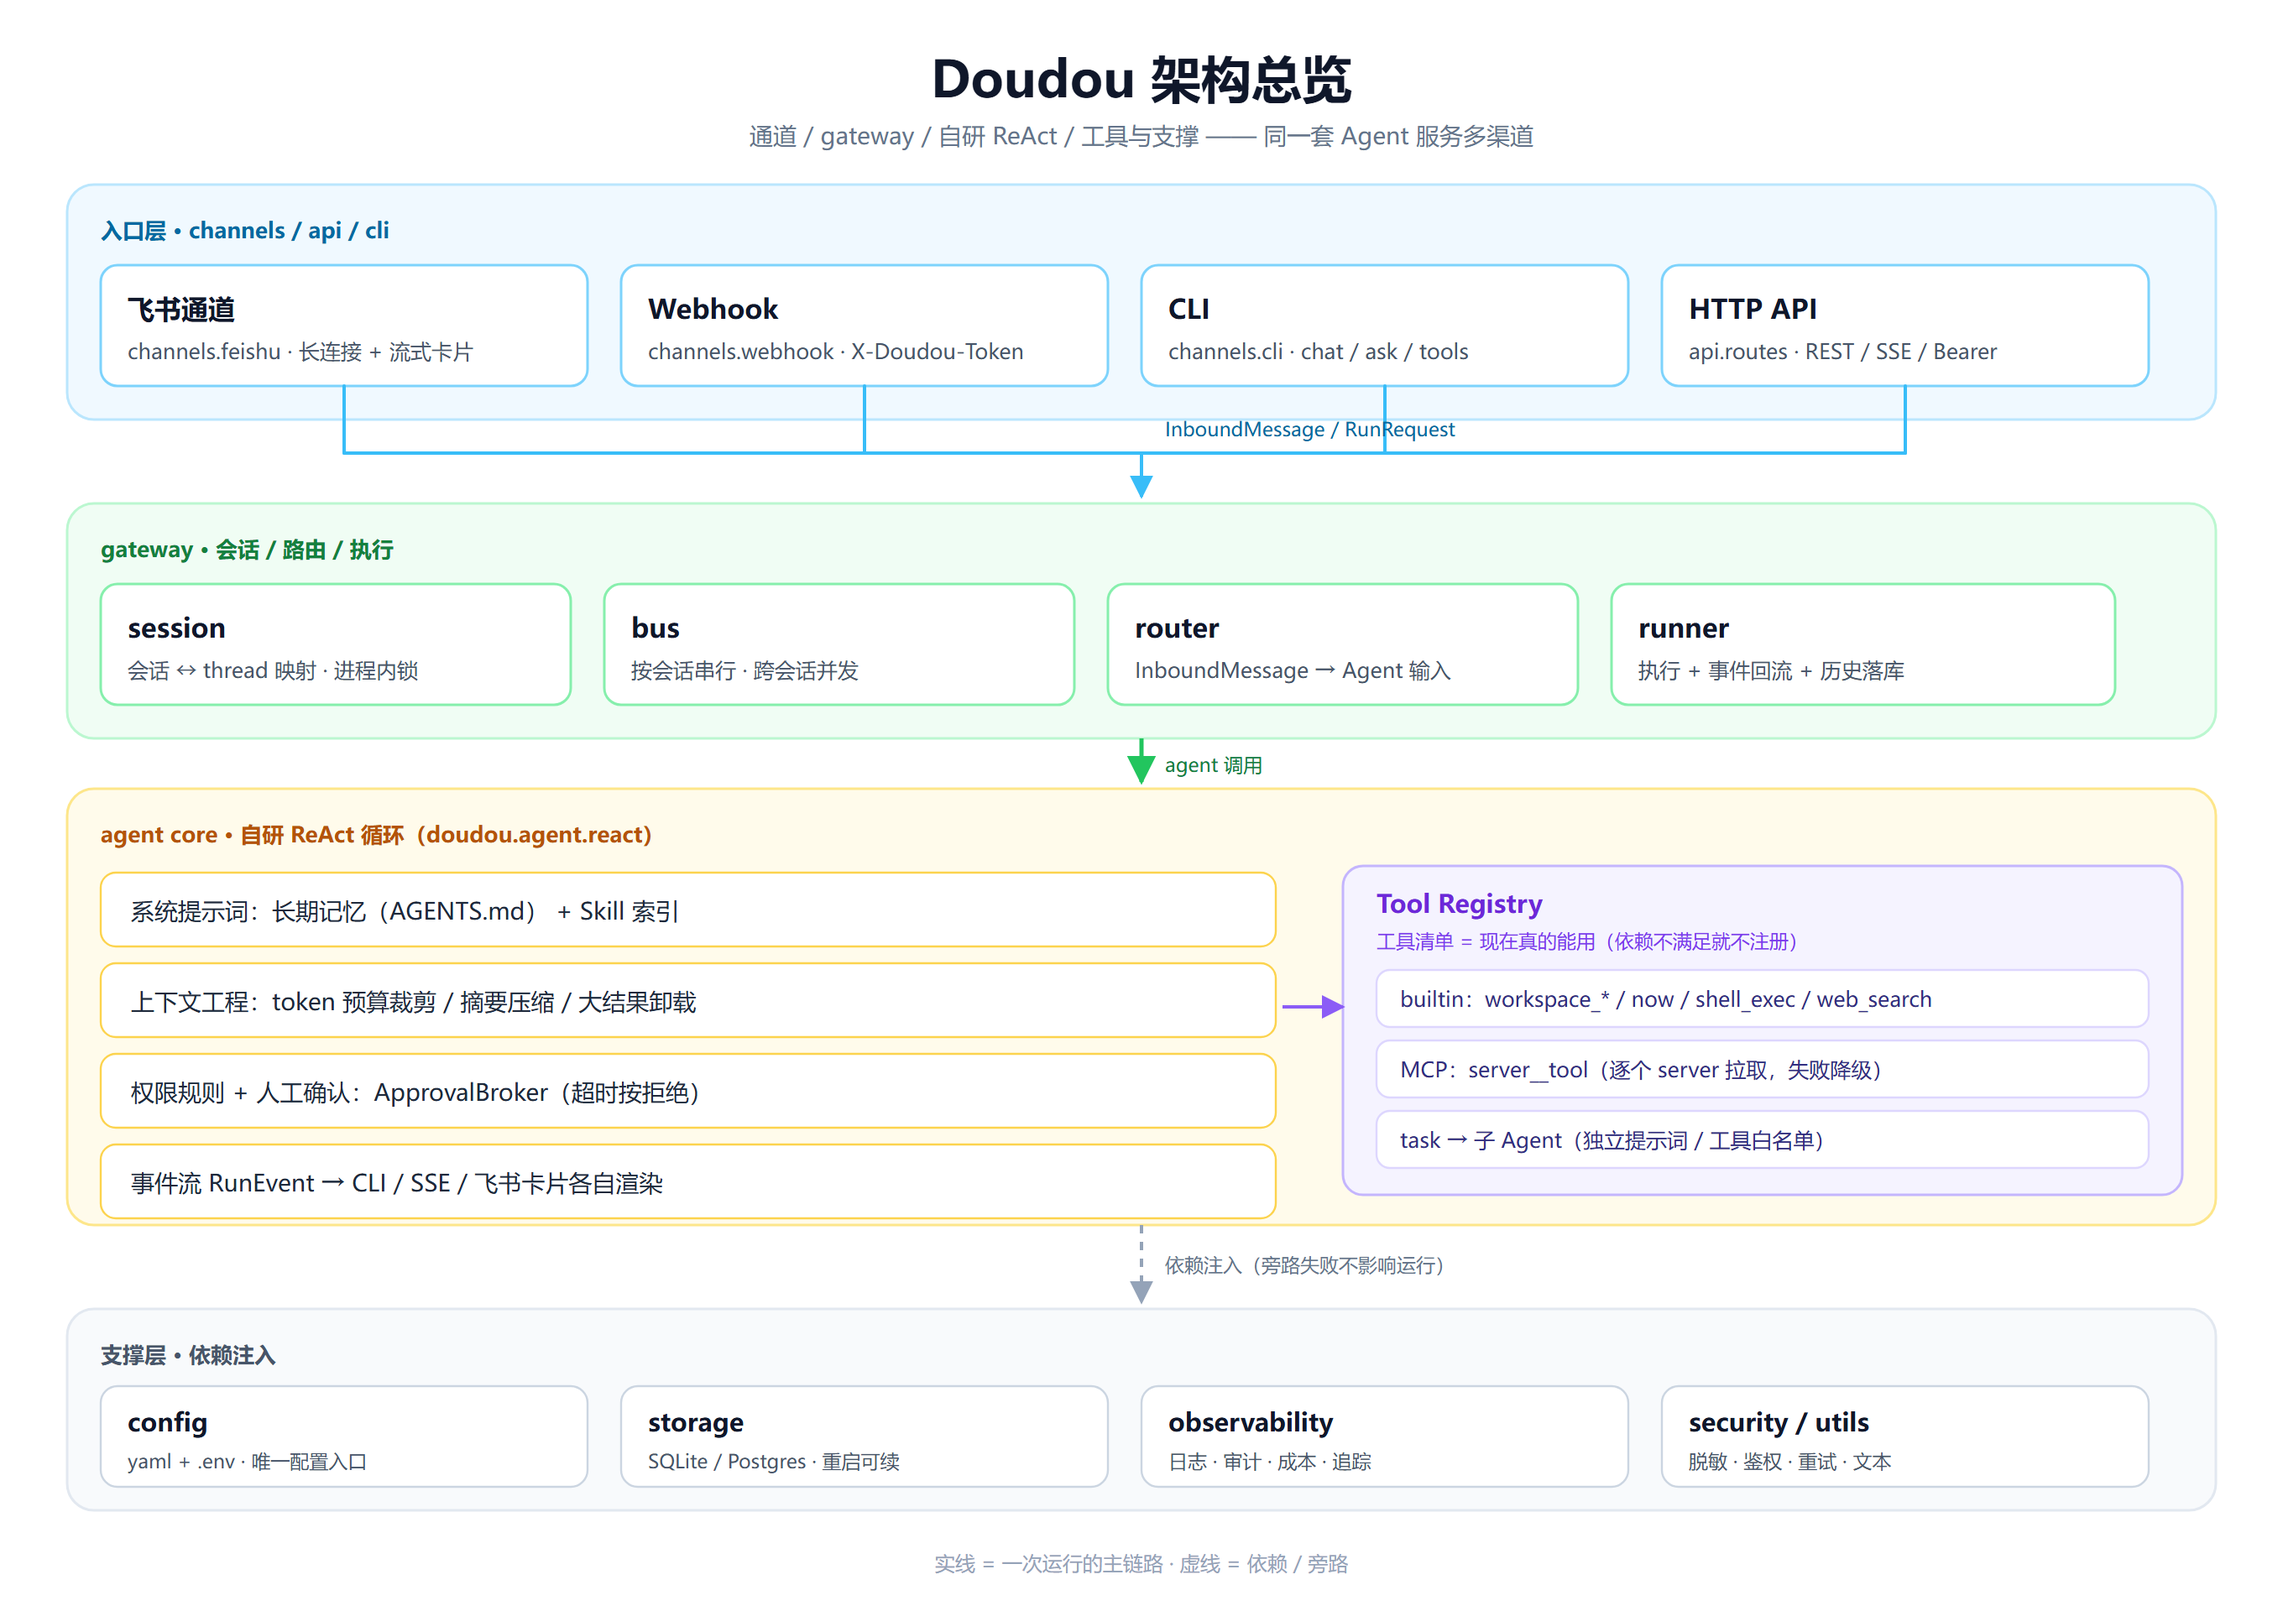
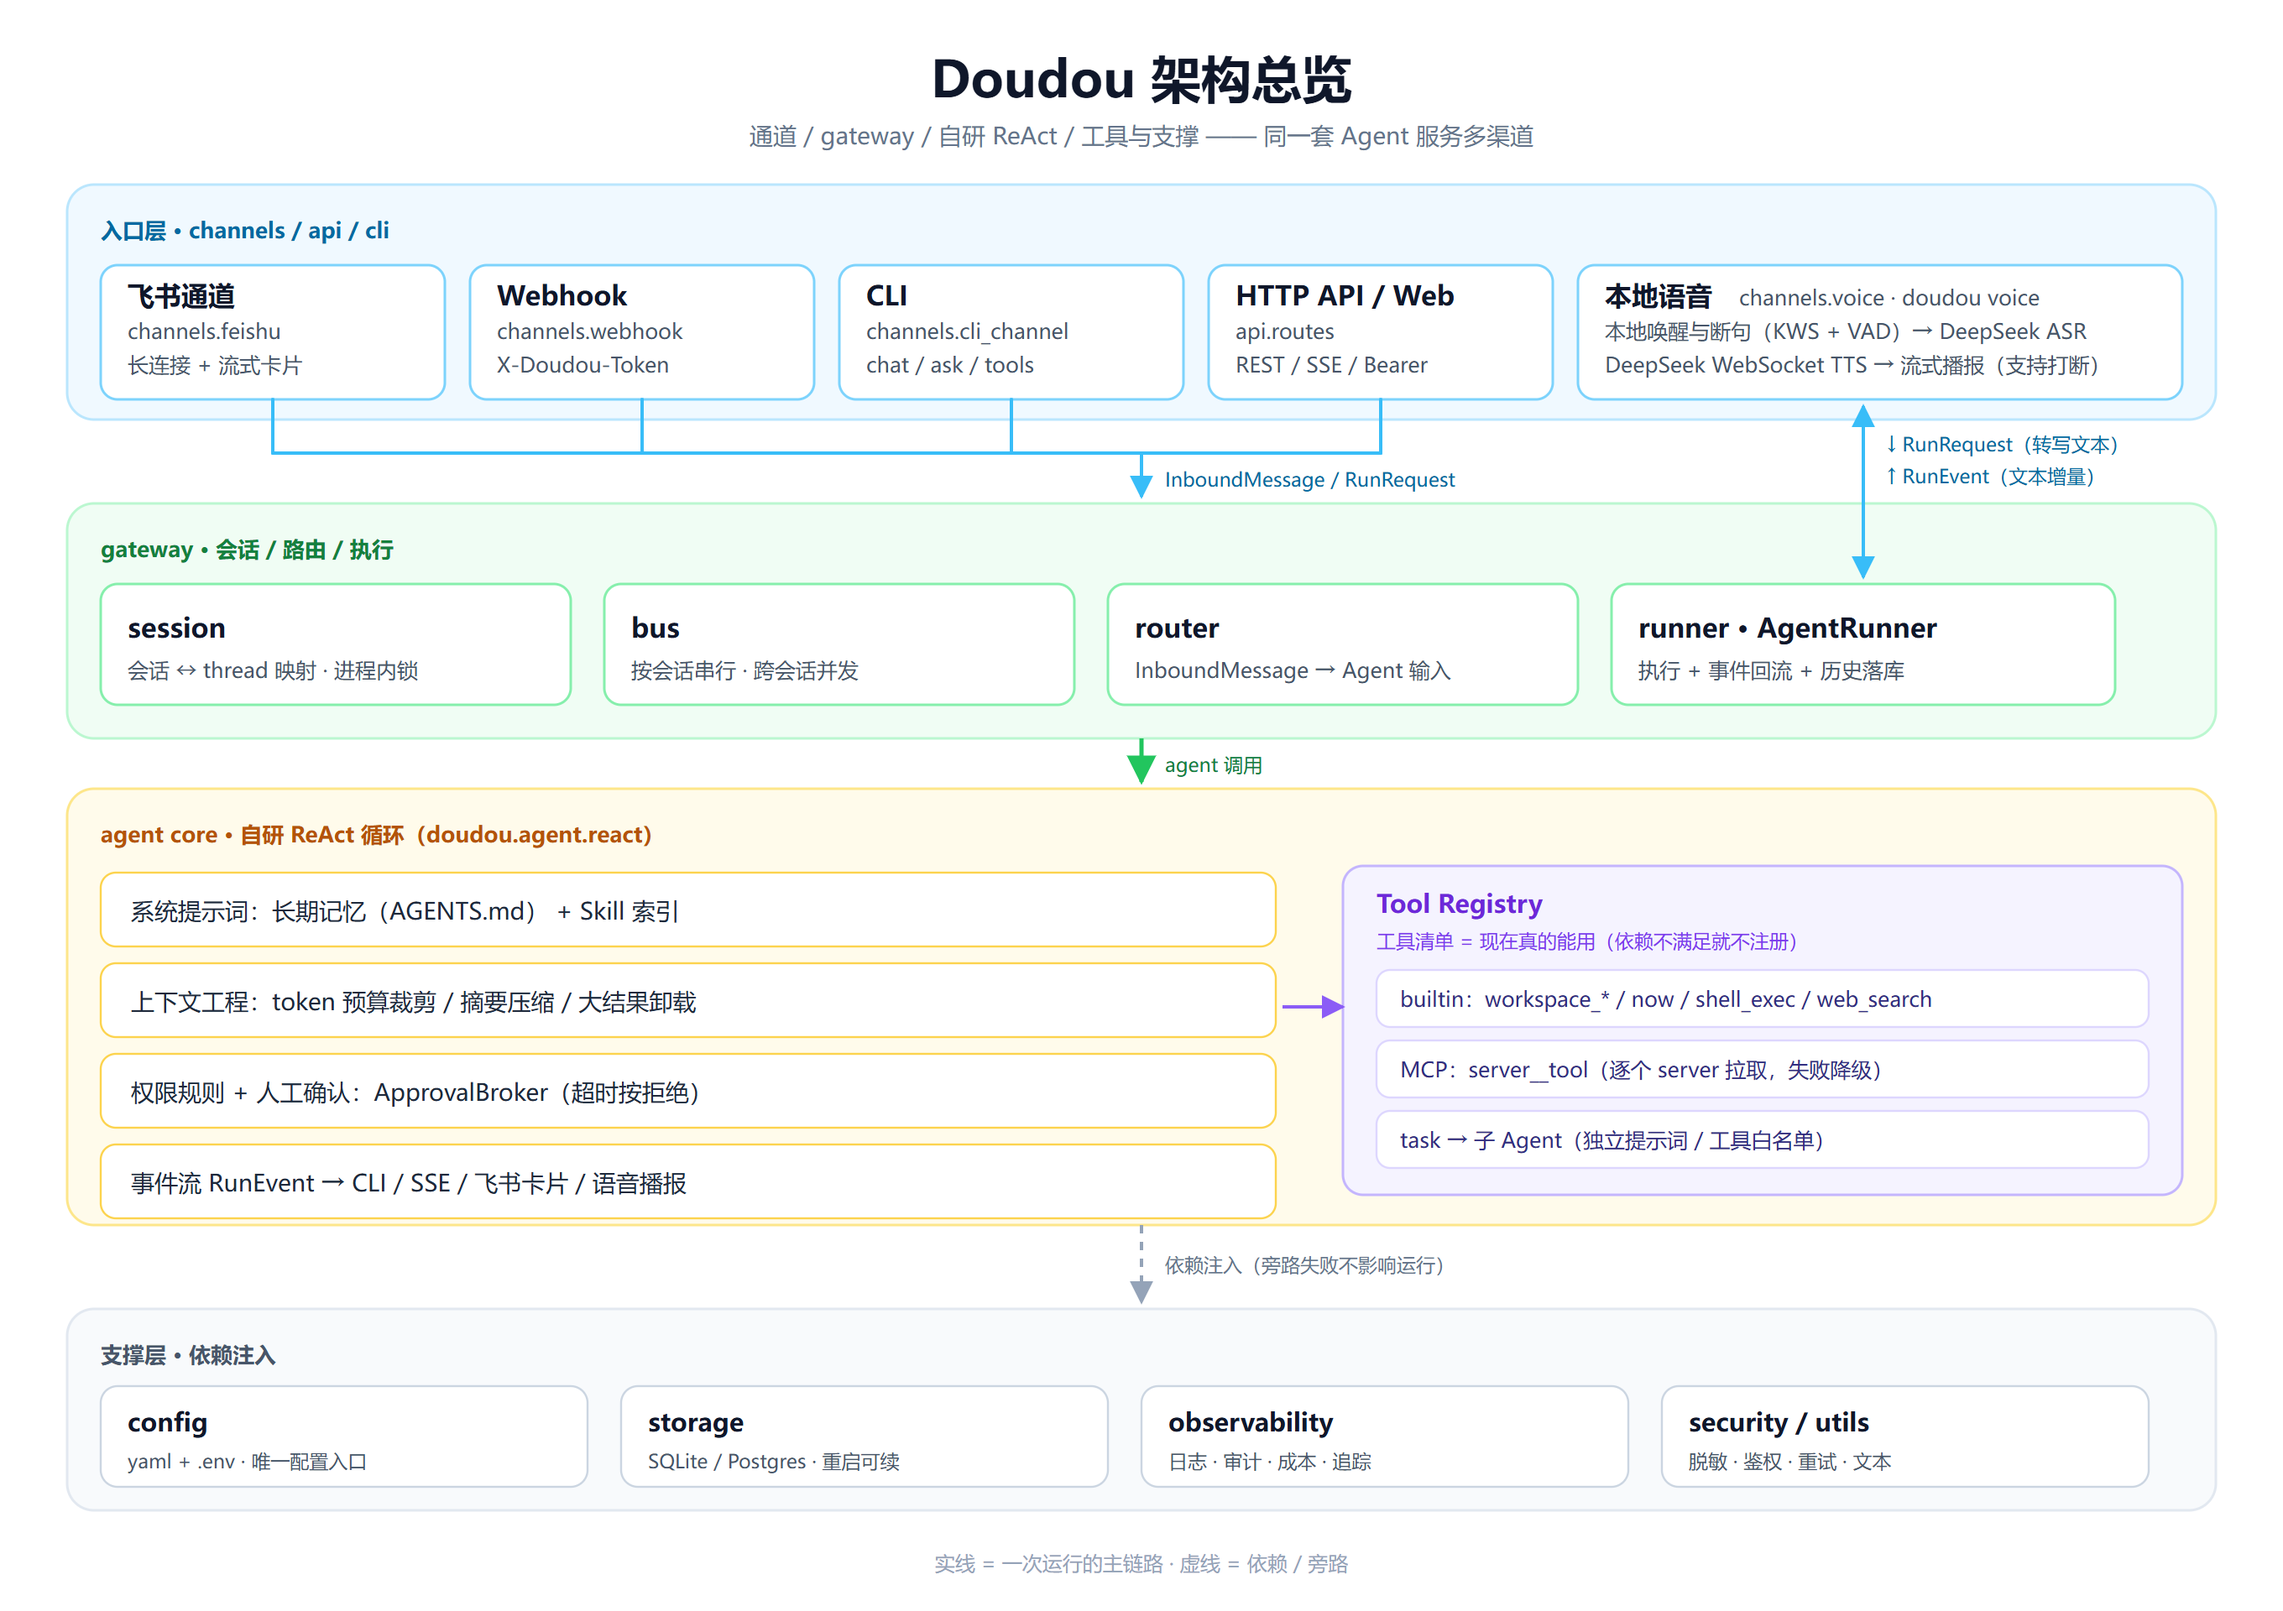
docs(architecture): 补充本地语音通道

Changed region(s): [[0.0312, 0.1562, 0.9688, 0.3125], [0.75, 0.375, 0.8438, 0.4062], [0.25, 0.7188, 0.3125, 0.75]]

diff --git a/docs/architecture.md b/docs/architecture.md
@@ -4,7 +4,7 @@
 
 ```
 ┌───────────────────────────── 入口层 ─────────────────────────────┐
-│  channels/{feishu,webhook,cli}     api/{routes}     cli/         │
+│  channels/{feishu,webhook}       api/routes · cli/ · voice      │
 └───────────────┬────────────────────────┬────────────────────────┘
                 │  InboundMessage        │  RunRequest
                 ▼                        ▼
@@ -43,7 +43,7 @@ run_start
 
 关键设计：
 
-- **事件化**：输出统一为 `RunEvent`（`agent/events.py`），CLI / SSE / 飞书卡片各自决定怎么渲染。
+- **事件化**：输出统一为 `RunEvent`（`agent/events.py`），供 CLI、SSE、飞书卡片和语音播报消费。
 - **工具调用按 index 手工累积**：只依赖 `tool_call_chunks` 协议，对 OpenAI / Anthropic / 兼容网关都成立，不假定 provider 的返回形态。
 - **单步失败不中断**：工具异常、工具不存在、参数 JSON 坏了，都转成错误 `ToolMessage` 回填给模型，让它换一种做法。
 - **人在回路**：`interrupt_on` 登记的工具在执行前调用 `approval_hook`；没有回调时**拒绝执行**而不是静默放行。
@@ -58,6 +58,7 @@ run_start
 | `channels.feishu` | 飞书长连接接入，去重与卡片渲染。 |
 | `channels.webhook` | 通用入站 webhook，便于对接其他 IM / 自动化平台。 |
 | `channels.cli_channel` | 终端交互，本地开发不依赖任何外部平台。 |
+| `channels.voice` | `doudou voice` 启动常驻监听。本地唤醒并断句，唤醒后用 DeepSeek ASR 转写，再直接向 `AgentRunner` 提交文本。返回的文本增量经 DeepSeek WebSocket TTS 流式播报，支持打断。 |
 | `api.app` | FastAPI 应用工厂：路由、中间件、异常处理、CORS。 |
 | `api.lifespan` | 进程级单例（agent / 数据库）的创建与释放，中间件与日志在此初始化。 |
 | `api.deps` | 依赖注入：运行期状态、runner、Bearer 鉴权。 |

diff --git a/README.md b/README.md
@@ -106,7 +106,7 @@ $ uv run doudou voice
 
 ## 2. 架构总览
 
-![Doudou 架构总览](docs/assets/architecture.png)
+![Doudou 架构总览，包含本地语音唤醒、转写与流式播报](docs/assets/architecture.png)
 
 > 可编辑的矢量源文件：[`docs/assets/architecture.svg`](docs/assets/architecture.svg)。
 
@@ -115,7 +115,7 @@ $ uv run doudou voice
 - **通道与 Agent 解耦**：通道只负责「收消息 / 发消息」，所有编排逻辑集中在 `gateway`。
 - **能力可插拔**：工具、MCP server、Skill 均通过配置声明，不写死在代码里。
 - **配置驱动**：`config/*.yaml` 描述 Agent、子 Agent、MCP、通道；环境变量与密钥走 `.env`。
-- **同一套 Agent 服务多渠道**：飞书、Webhook、CLI、HTTP API 与本地语音共享同一个 Agent 实例。
+- **同一套 Agent 引擎服务多渠道**：飞书、Webhook、CLI、HTTP API 与本地语音复用 gateway 和 ReAct 引擎。本地语音由 `doudou voice` 进程运行。
 
 ## 3. 目录结构
 

diff --git a/README.en.md b/README.en.md
@@ -118,7 +118,7 @@ Operations with side effects pop a separate confirmation card — nothing runs u
 
 ## 2. Architecture at a glance
 
-![Doudou architecture](docs/assets/architecture.png)
+![Doudou architecture with local voice wake, transcription and streaming playback](docs/assets/architecture.png)
 
 > Editable vector source: [`docs/assets/architecture.svg`](docs/assets/architecture.svg).
 
@@ -130,8 +130,8 @@ Design principles:
   hard-coded.
 - **Configuration-driven**: `config/*.yaml` describes the agent, subagents, MCP servers and
   channels; environment variables and secrets live in `.env`.
-- **One agent, many channels**: Feishu, webhook, CLI, the HTTP API and local voice share a single
-  agent instance.
+- **One agent engine, many channels**: Feishu, webhook, CLI, the HTTP API and local voice reuse the
+  gateway and ReAct engine. Local voice runs in the `doudou voice` process.
 
 ## 3. Directory layout
 
